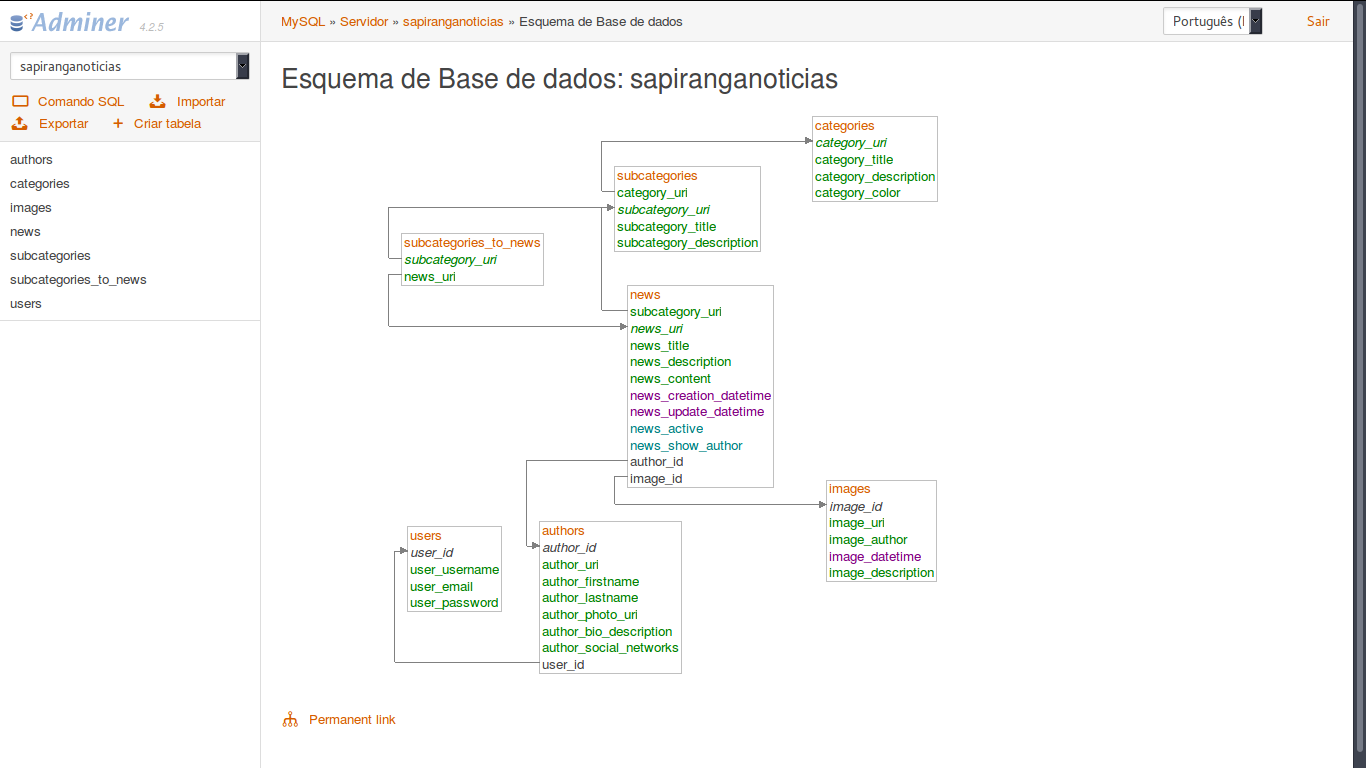
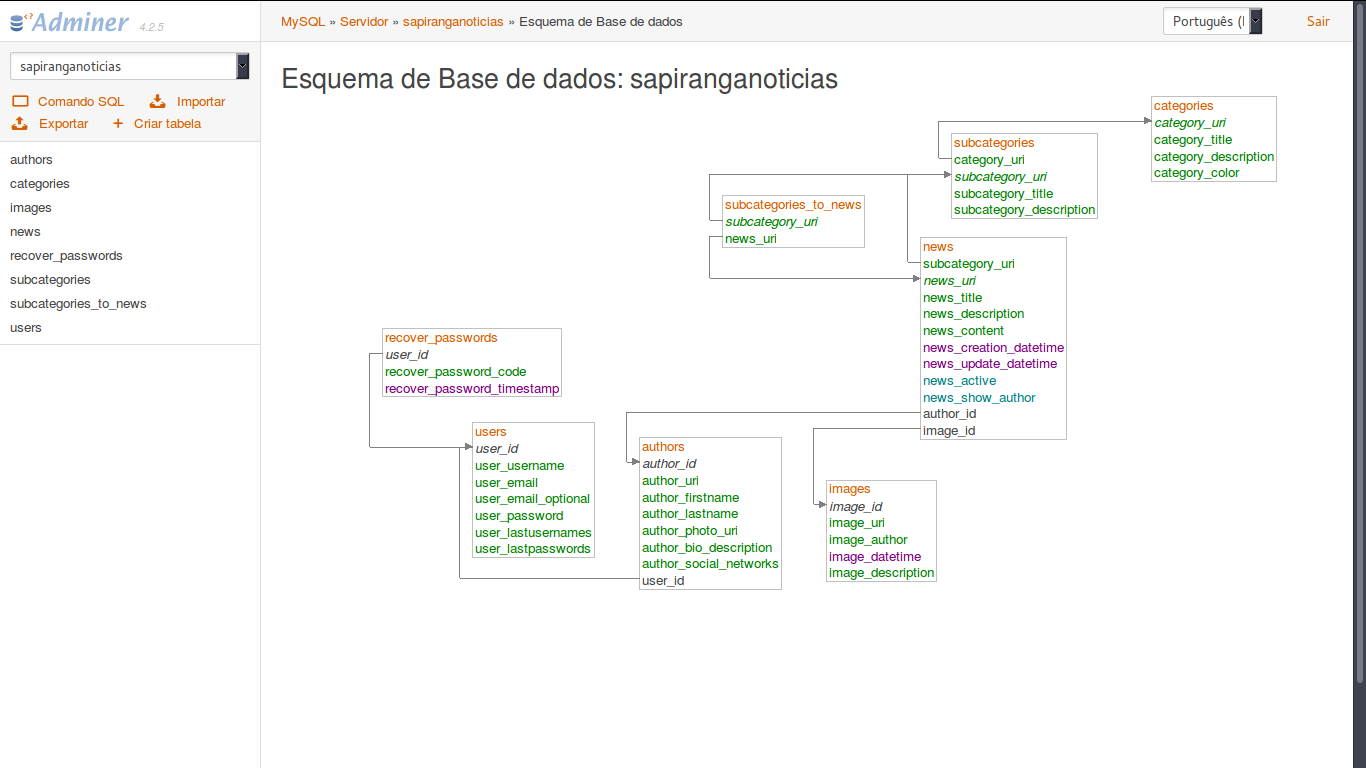
Adicionada tabela para Recuperação de Senhas

diff --git a/application/models/Installer_model.php b/application/models/Installer_model.php
@@ -19,6 +19,12 @@ class Installer_model extends CI_Model {
 	protected $table_users = 'users';
 
 	/**
+	 * @see Installer_model::table_recover_passwords()
+	 * @var string $table_news Nome da Tabela de Recuperação de Senhas
+	 */
+	protected $table_recover_passwords = 'recover_passwords';
+
+	/**
 	 * @see Installer_model::table_authors()
 	 * @var string $table_news Nome da Tabela de Autores
 	 */
@@ -71,6 +77,7 @@ class Installer_model extends CI_Model {
 	public function create_tables()
 	{
 		$this->table_users();
+		$this->table_recover_passwords();
 		$this->table_authors();
 		$this->table_images();
 		$this->table_categories();
@@ -90,27 +97,71 @@ class Installer_model extends CI_Model {
 		$table = $this->table_users;
 
 		$fields = array(
-			'user_id'       => array(
+			'user_id'             => array(
 				'type'           => 'INT',
 				'unsigned'       => TRUE,
 				'auto_increment' => TRUE,
 			),
-			'user_username' => array(
+			'user_username'       => array(
 				'type'       => 'VARCHAR',
 				'constraint' => 255,
 				'unique'     => TRUE,
 			),
-			'user_email'    => array(
+			'user_email'          => array(
 				'type'       => 'VARCHAR',
 				'constraint' => 255,
 				'unique'     => TRUE,
 			),
-			'user_password' => array(
+			'user_email_optional' => array(
+				'type'       => 'VARCHAR',
+				'constraint' => 255,
+				'unique'     => TRUE,
+			),
+			'user_password'       => array(
 				'type' => 'TEXT',
+			),
+			'user_lastusernames'  => array(
+				'type'    => 'TEXT',
+				'comment' => 'Últimos username codificados em JSON',
+			),
+			'user_lastpasswords'  => array(
+				'type'    => 'TEXT',
+				'comment' => 'Últimas senhas codificadas em JSON',
 			),
 		);
 		$this->dbforge->add_key('user_id', TRUE);
 		$this->dbforge->add_field($fields);
+
+		$this->dbforge->create_table($table, TRUE, $this->attributes);
+	}
+
+	/**
+	 * Tabela para Recuperação de Senhas
+	 * @see Installer_model::$recover_passwords
+	 * @return void
+	 */
+	protected function table_recover_passwords()
+	{
+		$table = $this->table_recover_passwords;
+
+		$fields = array(
+			'user_id'                    => array(
+				'type'           => 'INT',
+				'unsigned'       => TRUE,
+				'auto_increment' => TRUE,
+			),
+			'recover_password_code'      => array(
+				'type'       => 'VARCHAR',
+				'constraint' => 255,
+				'unique'     => TRUE,
+			),
+			'recover_password_timestamp' => array(
+				'type' => 'TIMESTAMP',
+			),
+		);
+		$this->dbforge->add_key('user_id', TRUE);
+		$this->dbforge->add_field($fields);
+		$this->dbforge->add_field("CONSTRAINT FOREIGN KEY (user_id) REFERENCES {$this->table_users}(user_id) ON DELETE CASCADE ON UPDATE CASCADE");
 
 		$this->dbforge->create_table($table, TRUE, $this->attributes);
 	}
